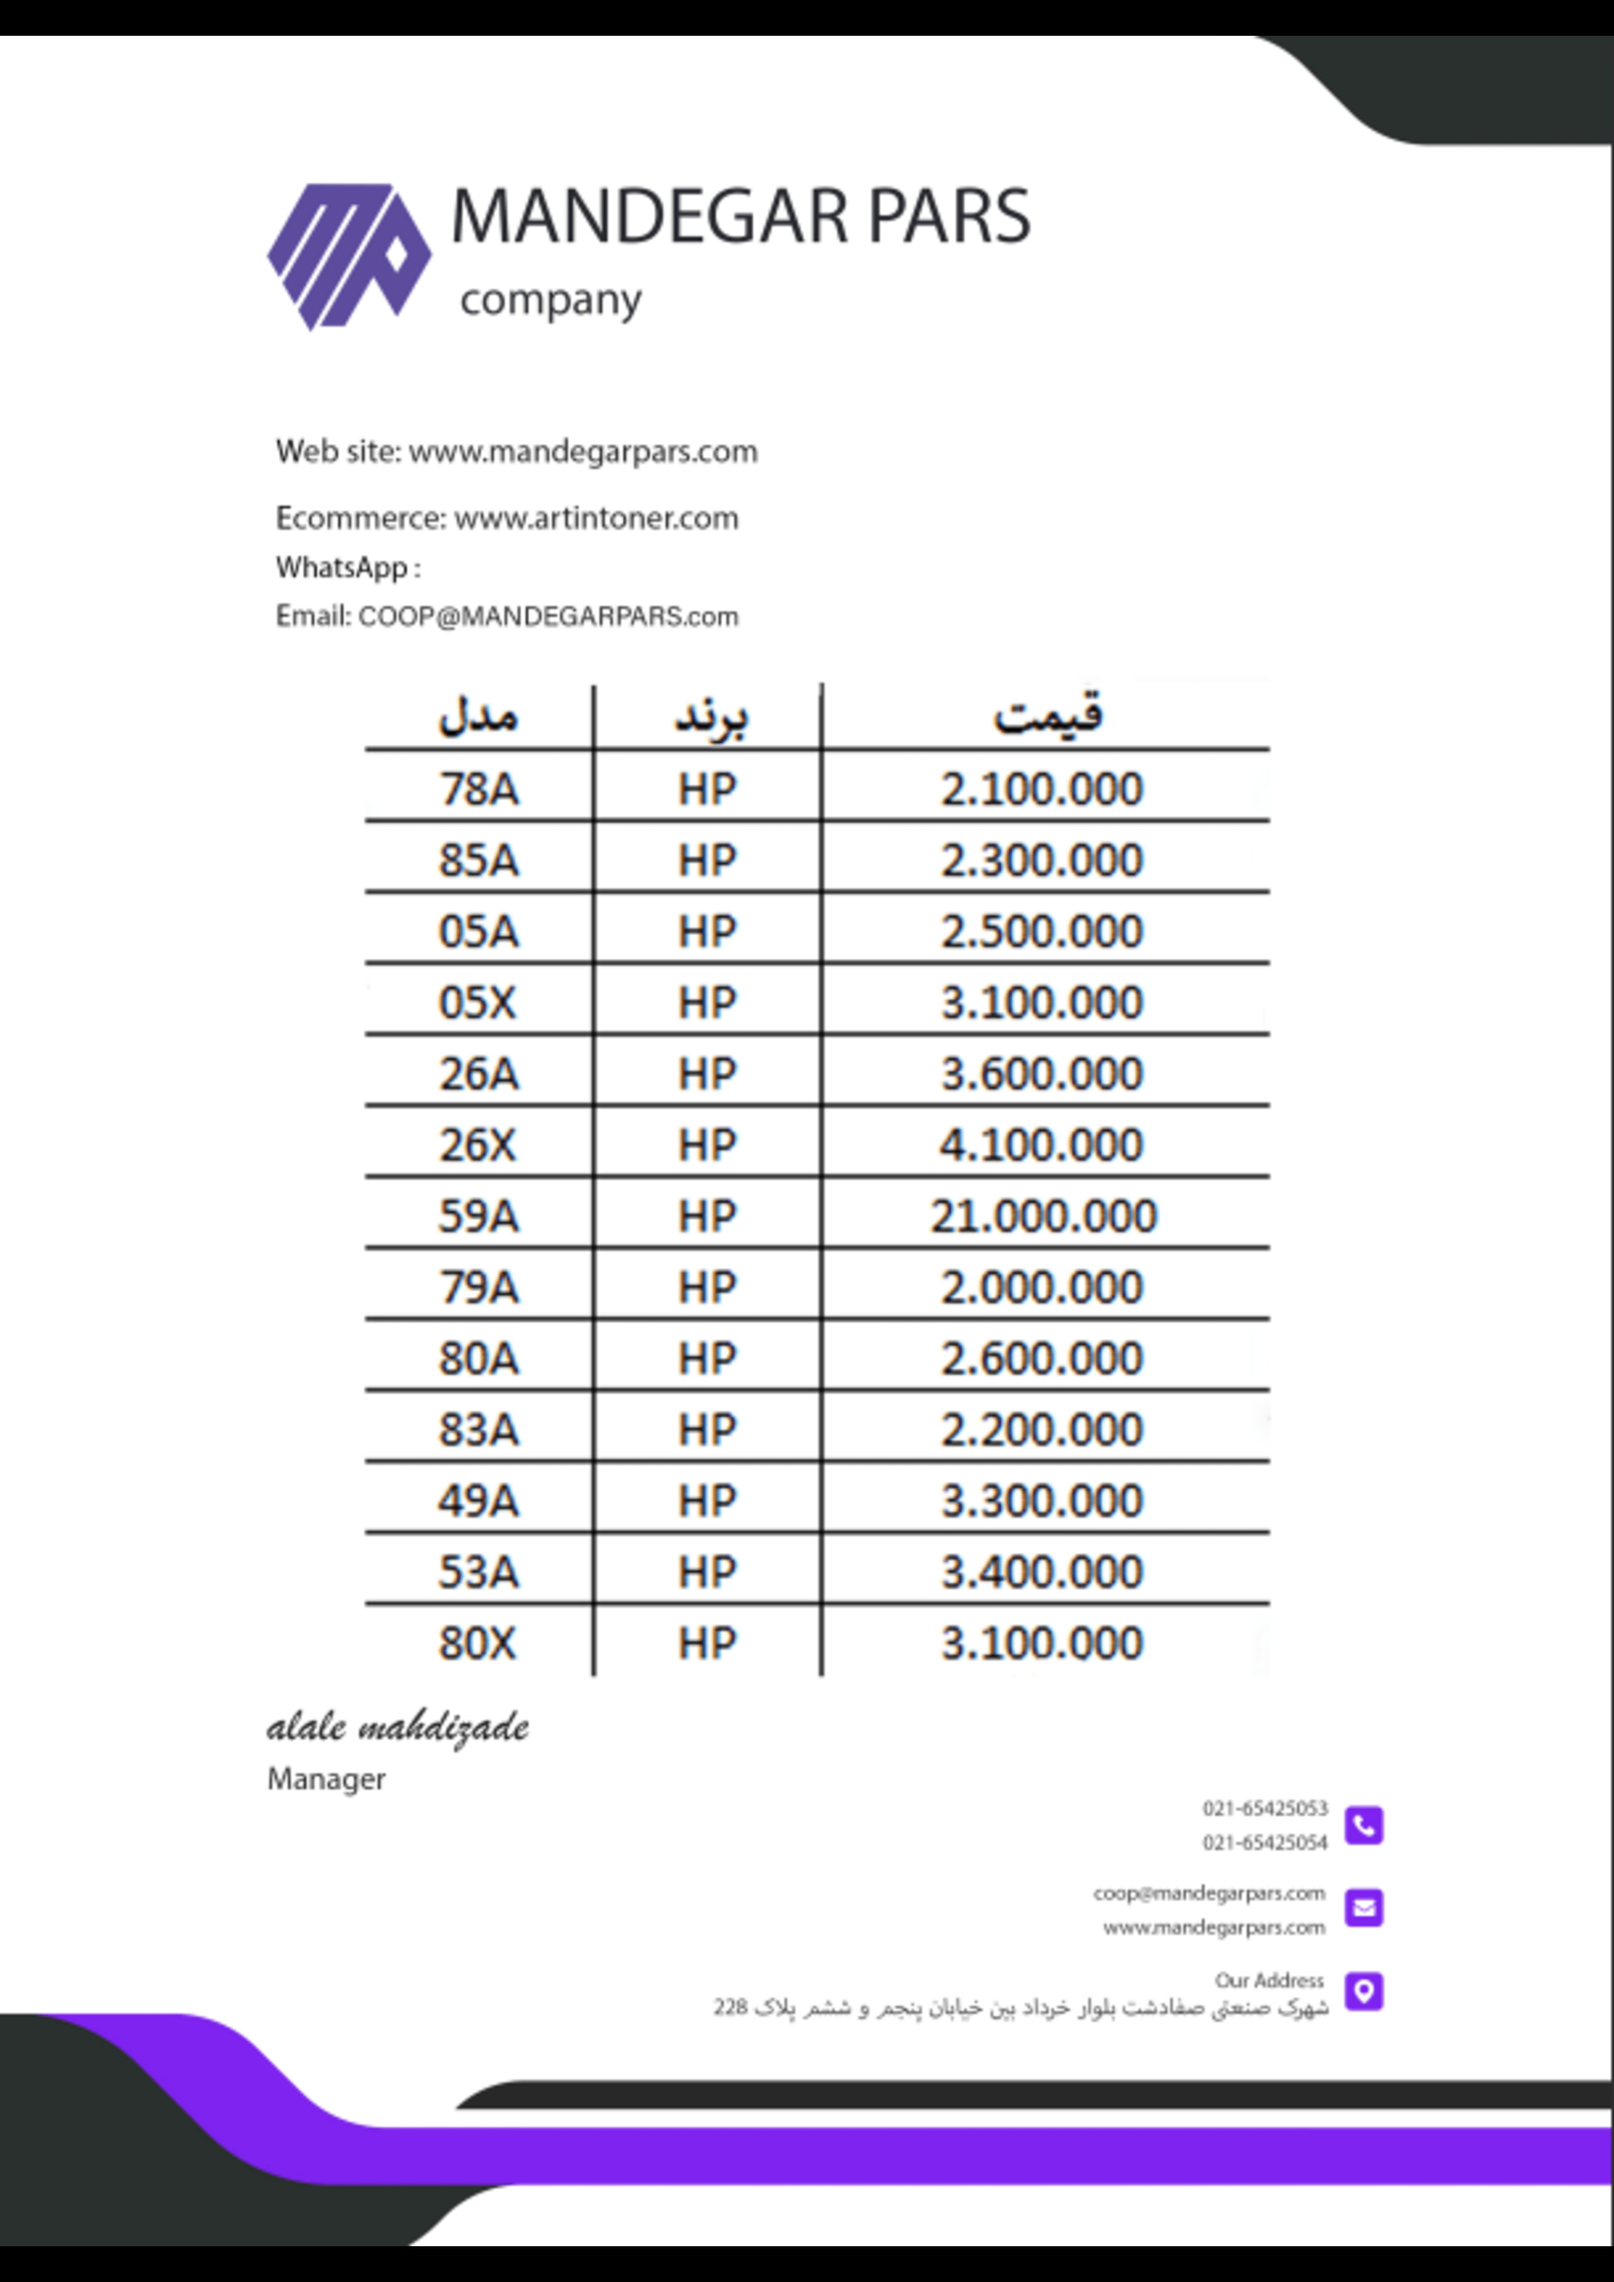
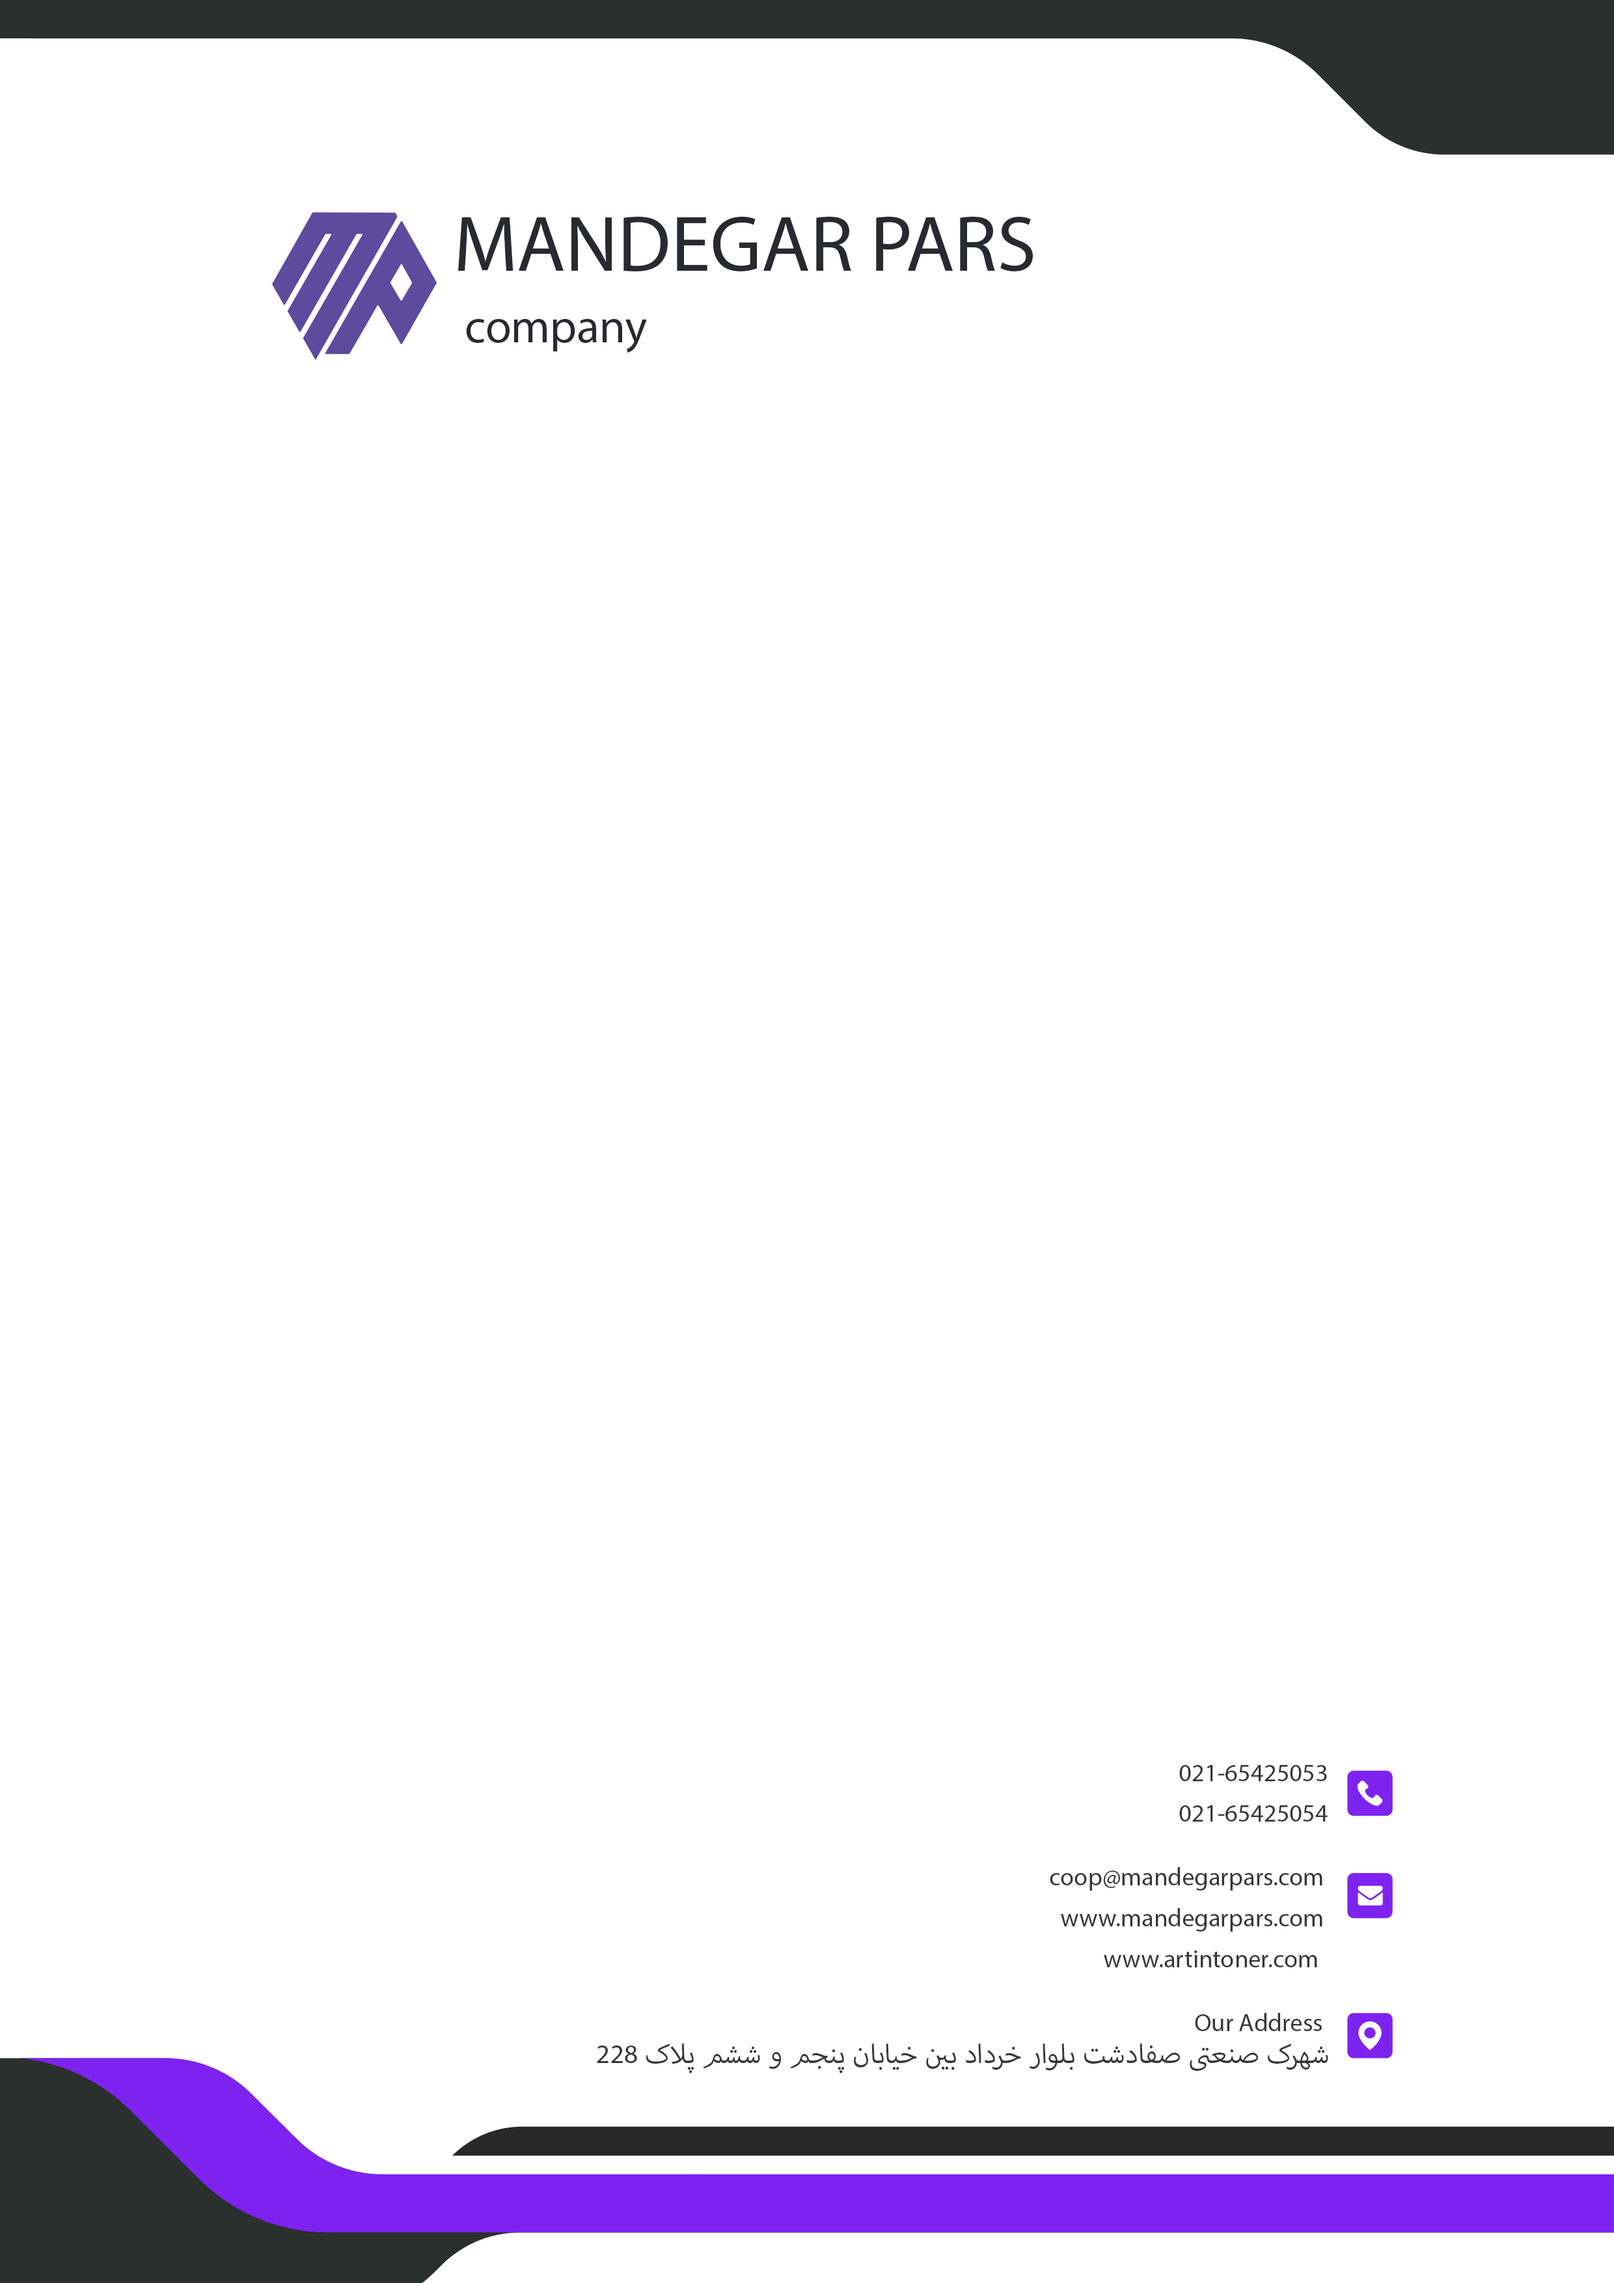
price list pdf

diff --git a/config/pdf.php b/config/pdf.php
@@ -25,14 +25,14 @@ return [
     'watermark_image_alpha'    => 0.2,
     'watermark_image_size'     => 'D',
     'watermark_image_position' => 'P',
-    'custom_font_dir'          => base_path('resources/fonts/'),
-//    'custom_font_data'         => [
-//        'vazir' => [
-//            'R'  => 'Vazir.ttf',    // regular font
-//            'useOTL' => 0xFF,    // required for complicated langs like Persian, Arabic and Chinese
-//            'useKashida' => 75,  // required for complicated langs like Persian, Arabic and Chinese
-//        ],
-//    ],
+    'custom_font_dir'          => base_path('/public/assets/fonts/farsi-fonts'),
+    'custom_font_data'         => [
+        'vazir' => [
+            'R'  => 'vazir-500.ttf',    // regular font
+            'useOTL' => 0xFF,    // required for complicated langs like Persian, Arabic and Chinese
+            'useKashida' => 75,  // required for complicated langs like Persian, Arabic and Chinese
+        ],
+    ],
     'auto_language_detection'  => false,
     'temp_dir'                 => rtrim(sys_get_temp_dir(), DIRECTORY_SEPARATOR),
     'pdfa'                     => false,

diff --git a/resources/views/panel/pdf/prices.blade.php b/resources/views/panel/pdf/prices.blade.php
@@ -1,0 +1,34 @@
+<!doctype html>
+<html lang="en" dir="rtl">
+<head>
+    <meta charset="UTF-8">
+    <meta name="viewport" content="width=device-width, user-scalable=no, initial-scale=1.0, maximum-scale=1.0, minimum-scale=1.0">
+    <meta http-equiv="X-UA-Compatible" content="ie=edge">
+    <title></title>
+</head>
+<style>
+    body{
+        font-size: larger;
+    }
+</style>
+<body>
+    <table style="text-align: center; width: 100%">
+        <thead>
+        <tr>
+            <th style="border-bottom: 2px solid #000; padding-bottom: 10px">مدل</th>
+            <th style="border-bottom: 2px solid #000; padding-bottom: 10px">قیمت (ریال)</th>
+        </tr>
+        </thead>
+        <tbody>
+        @foreach($data as $item)
+            <tr>
+                <td>{{ $item->title }}</td>
+                <td>{{ number_format($item->system_price) }}</td>
+            </tr>
+        @endforeach
+        </tbody>
+    </table>
+</body>
+</html>
+
+

diff --git a/routes/web.php b/routes/web.php
@@ -41,13 +41,16 @@ Route::get('/', function () {
 Route::get('test/{id?}',function ($id = null){
 //    return \auth()->loginUsingId($id);
     $backPath = public_path('/assets/media/image/prices/background.png');
+    $data = \App\Models\Product::all();
 
-    $pdf = PDF::loadView('panel.pdf.prices',[],[], [
+    $pdf = PDF::loadView('panel.pdf.prices',['data' => $data],[], [
         'title' => "drgy",
-        'margin_top' => 10,
+        'margin_top' => 50,
         'margin_bottom' => 20,
         'watermark_image_alpha' => 1,
+        'default_font_size' => 15,
         'show_watermark_image' => true,
+        'watermarkImgBehind' => true,
         'watermark_image_path' => $backPath
     ]);
 
